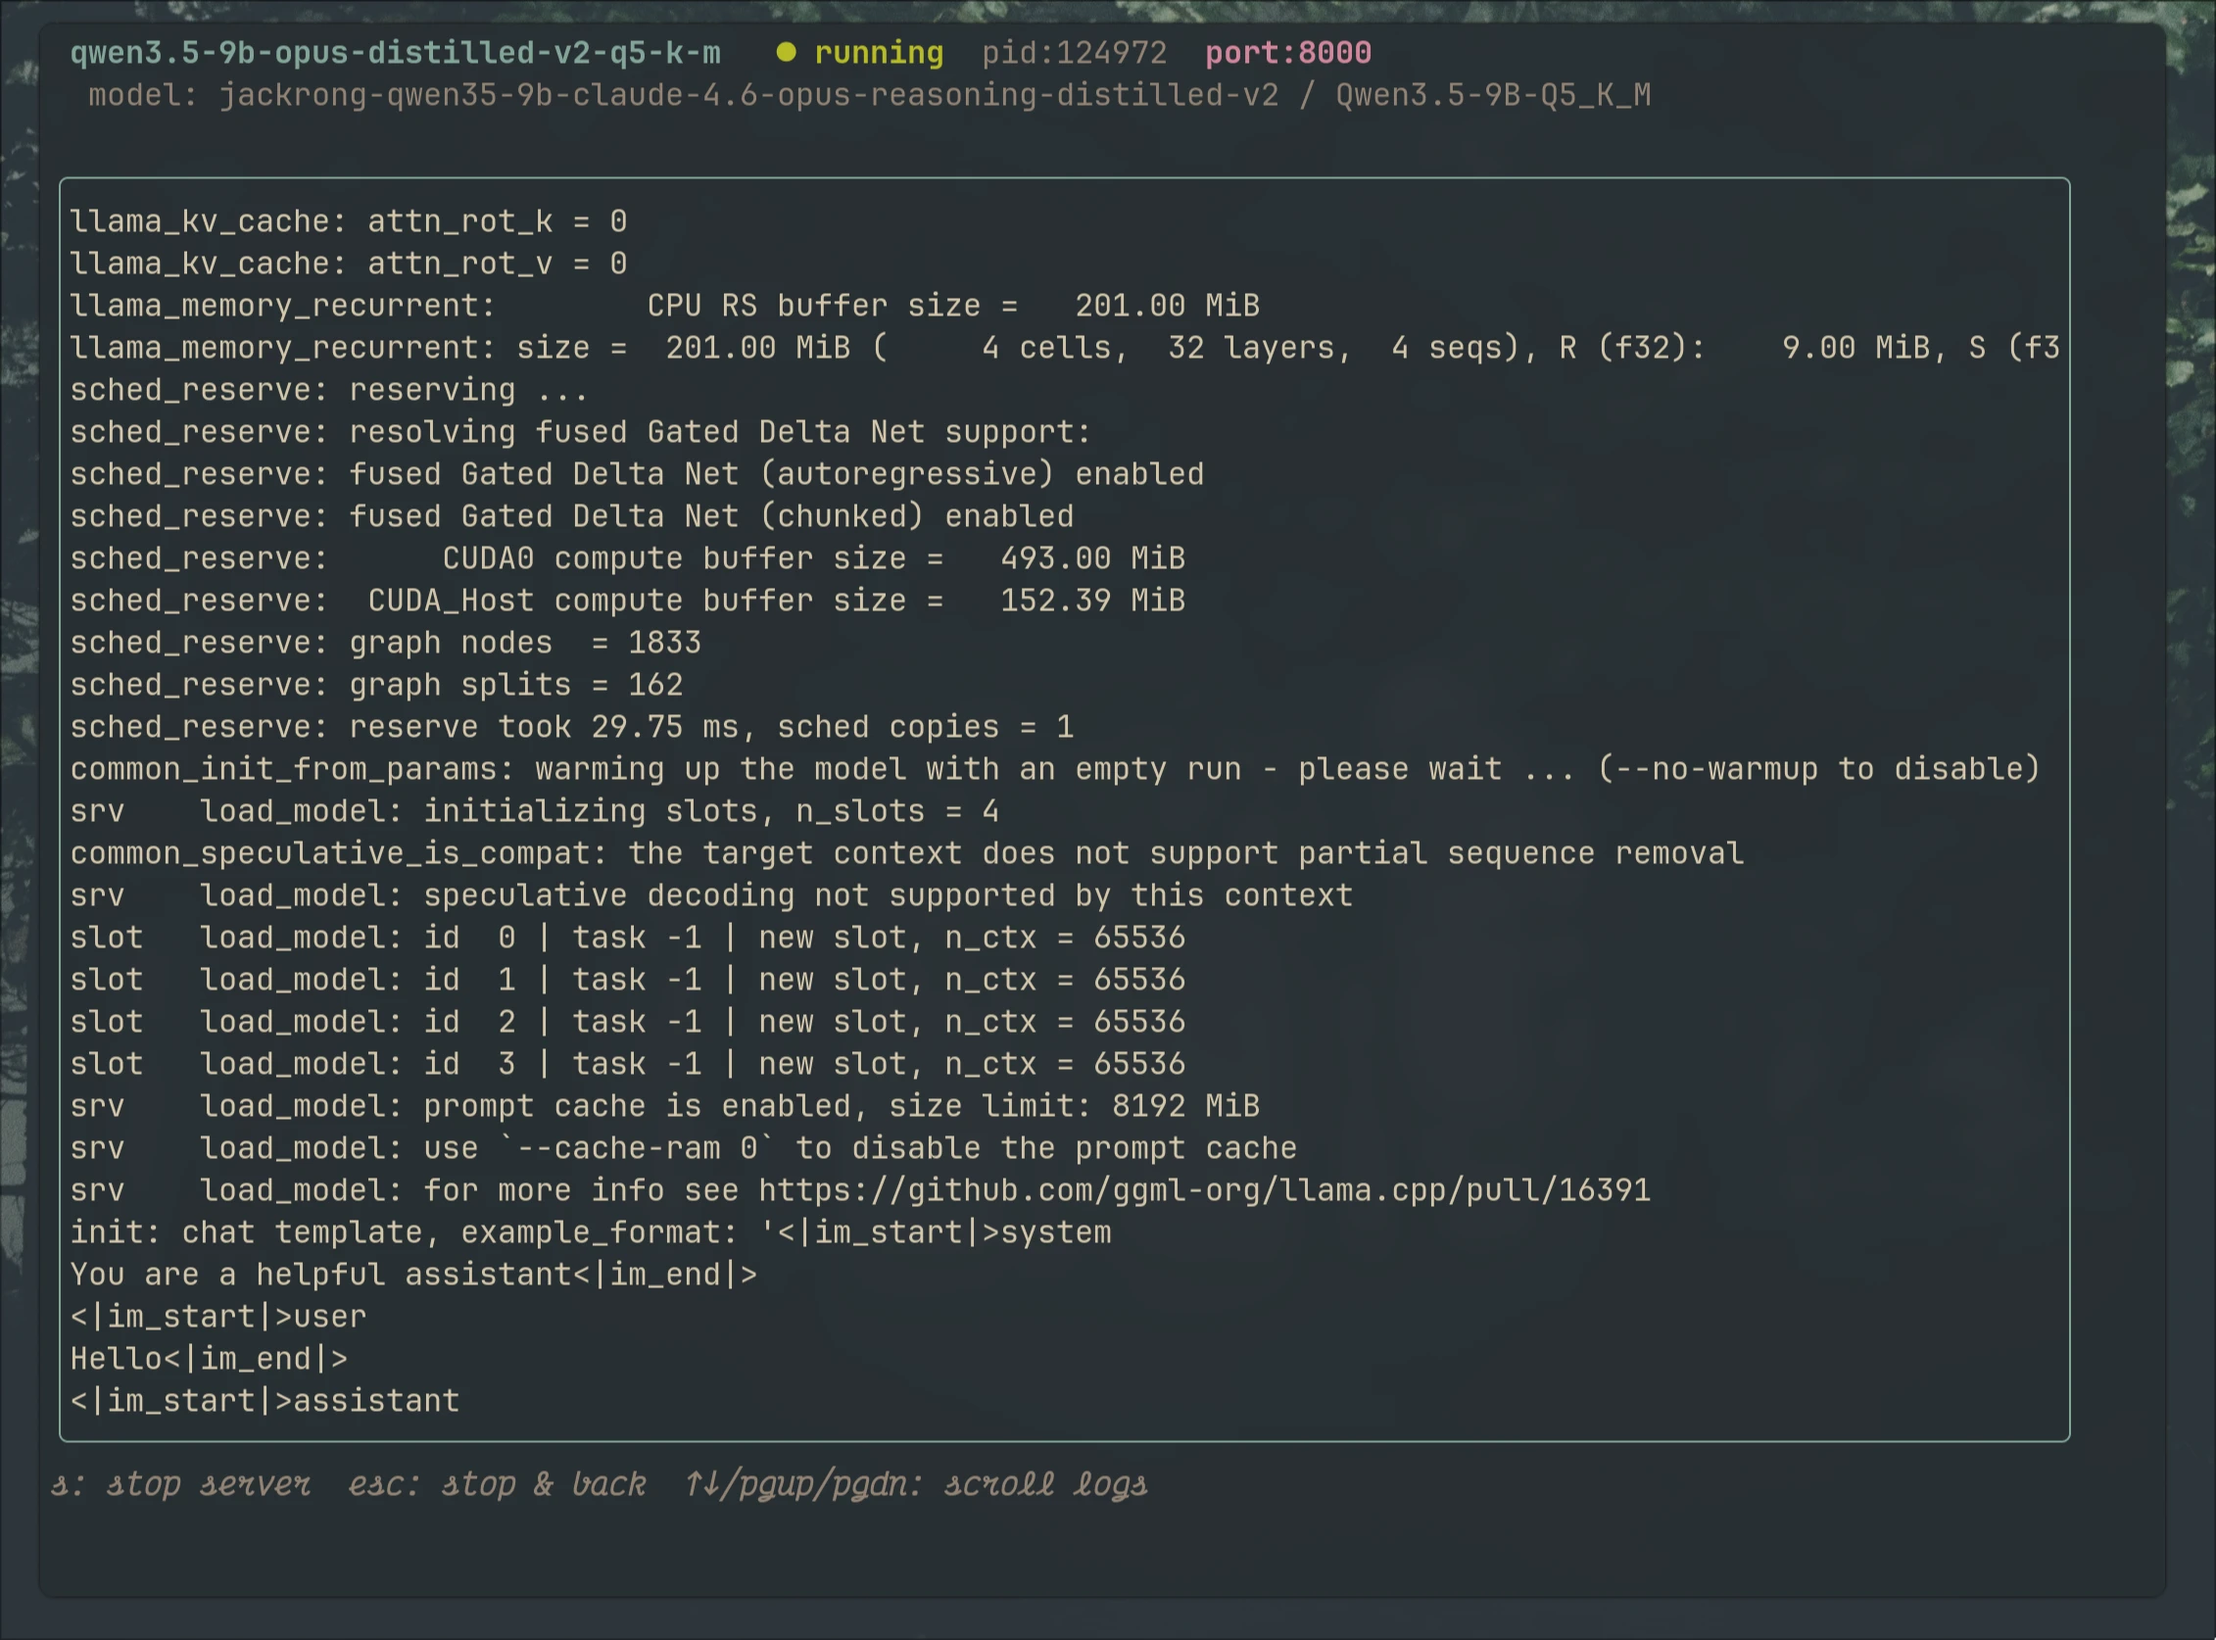
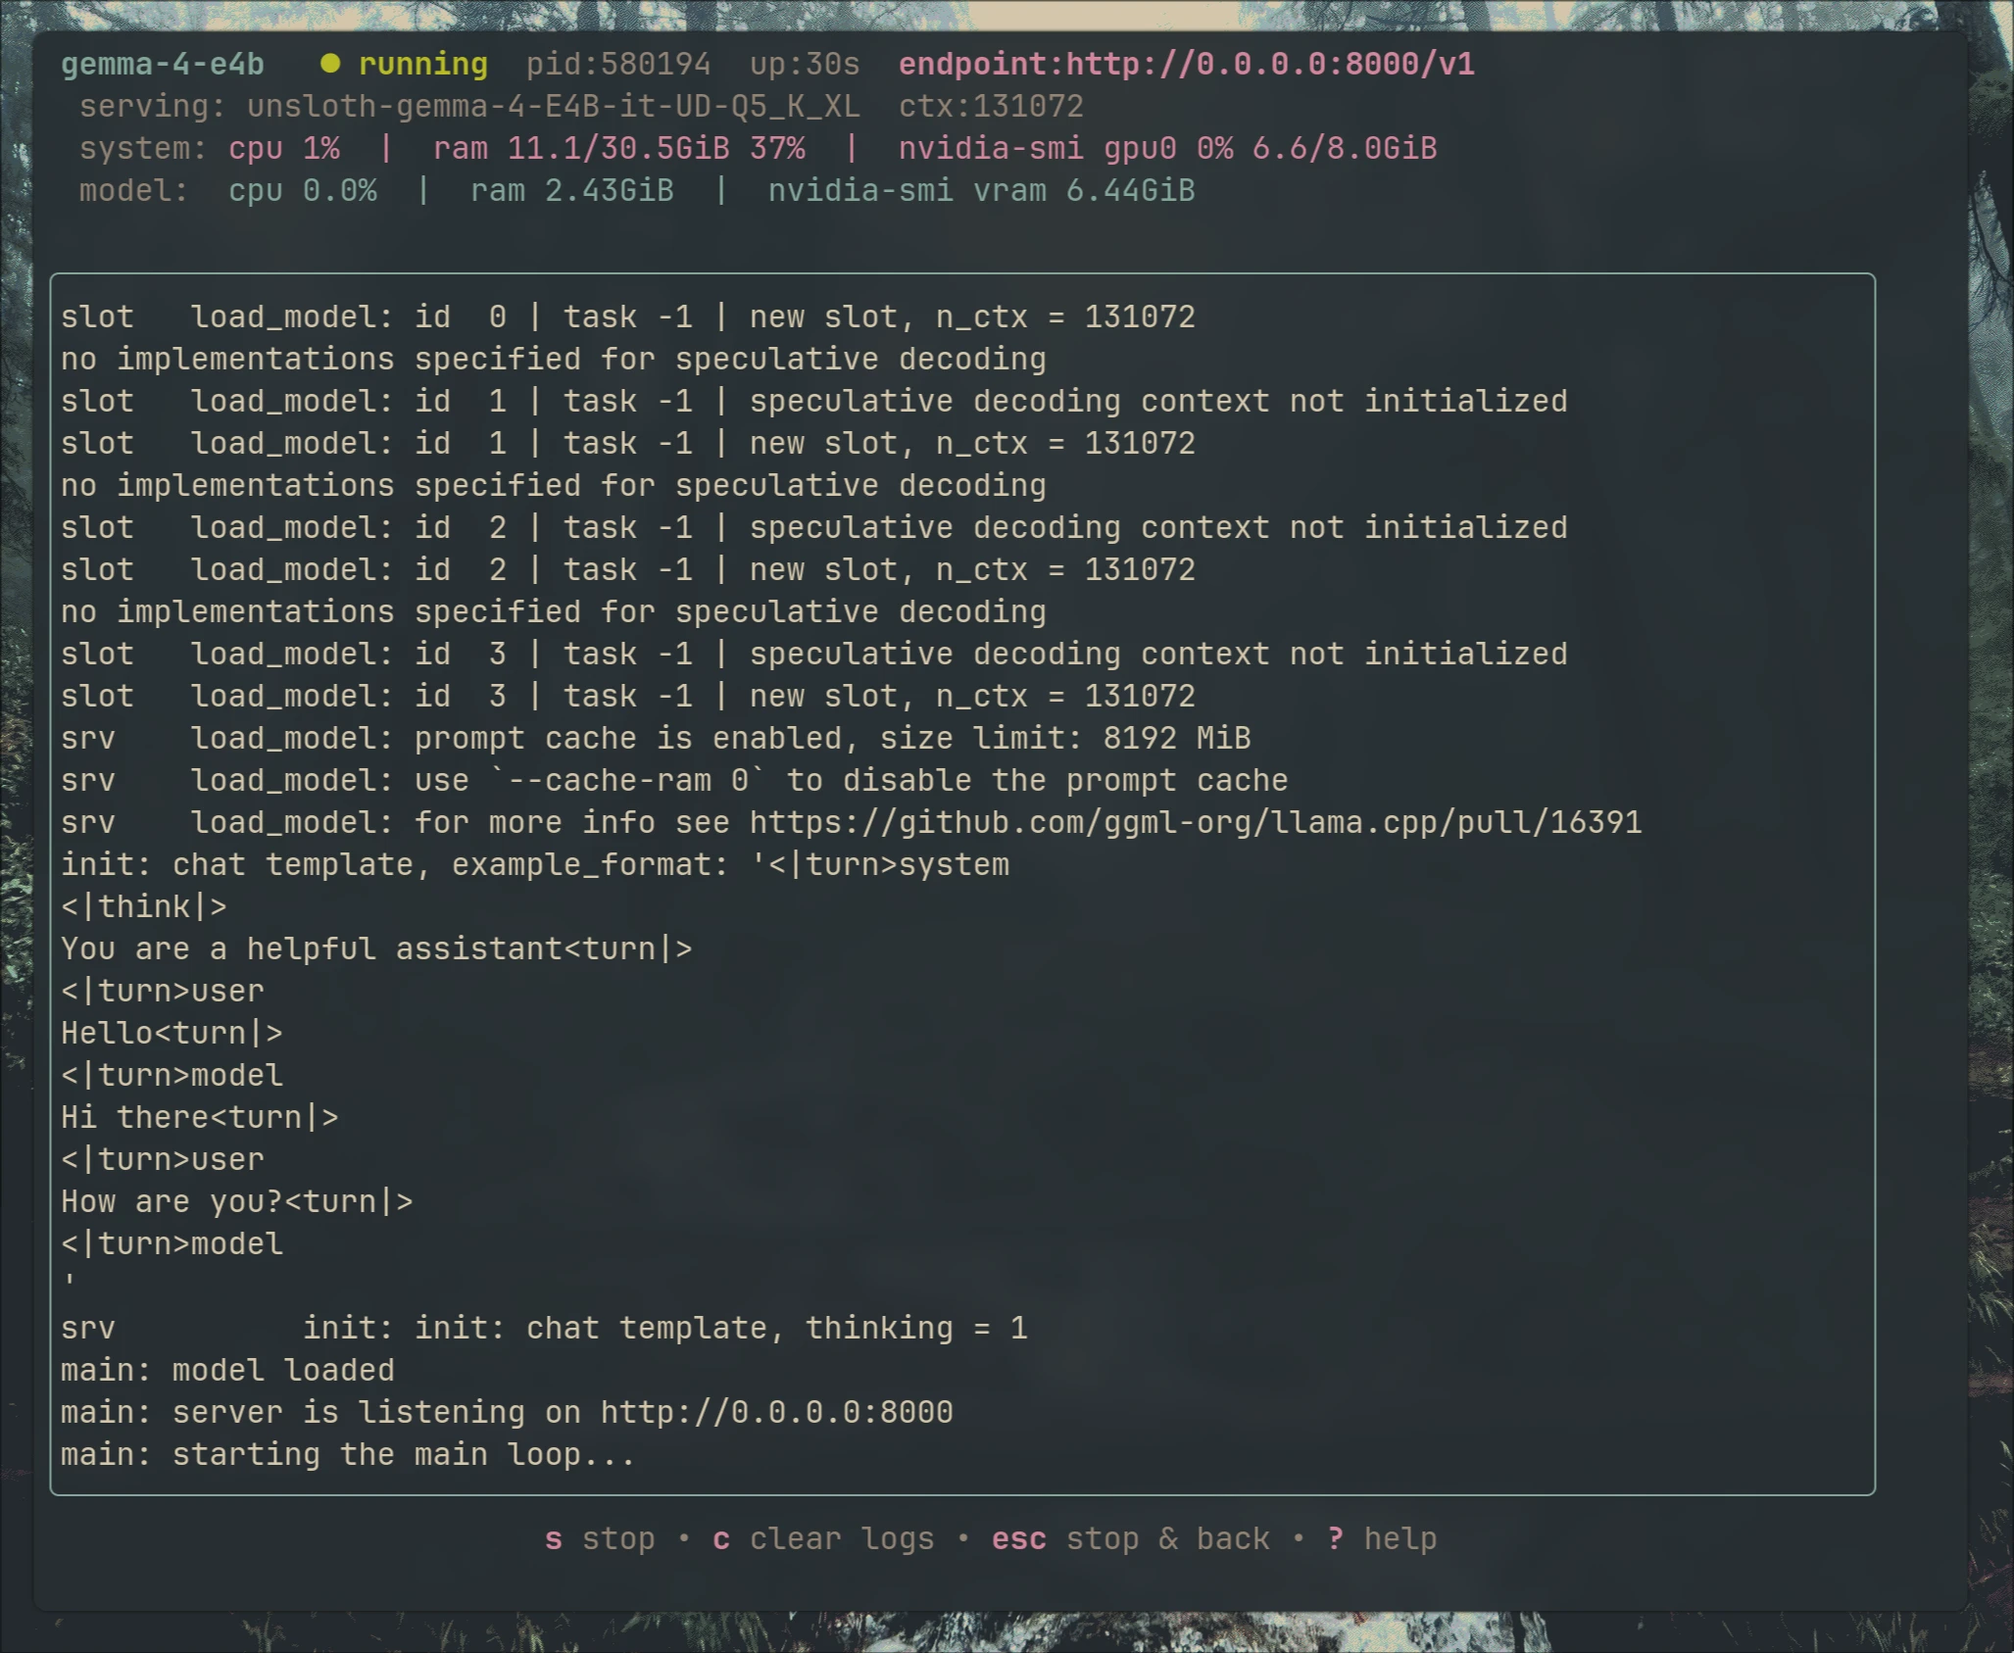
Updated the readme

diff --git a/docs/index.html b/docs/index.html
@@ -3,10 +3,10 @@
 <head>
   <meta charset="UTF-8">
   <meta name="viewport" content="width=device-width, initial-scale=1.0">
-  <title>infai — Zero-management local LLM launcher</title>
-  <meta name="description" content="Stop wrestling with CLI flags. infai auto-detects, configures, and launches local LLMs from a terminal UI.">
-  <meta property="og:title" content="infai — Zero-management local LLM launcher">
-  <meta property="og:description" content="Auto-detect models, create launch profiles, and run local LLMs without memorizing shell commands.">
+  <title>infai — Lightweight local LLM launcher</title>
+  <meta name="description" content="A lightweight, simple terminal UI for local LLM inference. Auto-detect GGUF models, save profiles, and launch fast.">
+  <meta property="og:title" content="infai — Lightweight local LLM launcher">
+  <meta property="og:description" content="A lightweight, simple terminal UI to auto-detect models, save launch profiles, and run local inference without flag soup.">
   <meta property="og:type" content="website">
   <meta property="og:url" content="https://infai.dipankar-das.com">
   <link rel="preconnect" href="https://fonts.googleapis.com">
@@ -51,8 +51,8 @@
       </h1>
       <p class="hero-sub reveal-up" style="--d:3">
         infai auto-detects your GGUF models, wraps llama.cpp in a terminal UI,
-        and lets you launch inference servers with one keypress.<br>
-        No flags to memorize. No YAML. No scripts.
+        and launches inference servers with one keypress.<br>
+        Lightweight. Simple. No flag soup, YAML sprawl, or shell scripts.
       </p>
       <div class="hero-actions reveal-up" style="--d:4">
         <a href="#install" class="btn-primary">
@@ -125,7 +125,7 @@
       <div class="showcase-text">
         <span class="showcase-num">01</span>
         <h3>Configure once,<br>launch forever</h3>
-        <p>Name your profile, set context size, GPU layers, batch parameters, flash attention, quantization type. Save it. Never think about it again.</p>
+        <p>Name your profile, set context size, GPU layers, batch parameters, flash attention, quantization type. Save it once and relaunch in seconds.</p>
       </div>
       <div class="showcase-img">
         <div class="img-frame">
@@ -137,7 +137,7 @@
       <div class="showcase-text">
         <span class="showcase-num">02</span>
         <h3>Watch inference<br>happen live</h3>
-        <p>Built-in scrollable viewport streams server output in real-time. Stop, restart, or switch models without leaving the TUI.</p>
+        <p>Built-in viewport streams logs plus system/model metrics in real-time. Stop, restart, or switch models without leaving the TUI.</p>
       </div>
       <div class="showcase-img">
         <div class="img-frame">
@@ -156,39 +156,46 @@
       <div class="feat reveal-up" style="--d:0">
         <span class="feat-marker">//</span>
         <div>
+          <h3>Lightweight by design</h3>
+          <p>Minimal dependencies, terminal-native UX, and fast startup. infai stays out of your way and keeps local inference simple.</p>
+        </div>
+      </div>
+      <div class="feat reveal-up" style="--d:1">
+        <span class="feat-marker">//</span>
+        <div>
           <h3>Auto-detection</h3>
           <p>Point at your model directories. infai scans for GGUF files and indexes them. New model? Just rescan.</p>
         </div>
       </div>
-      <div class="feat reveal-up" style="--d:1">
+      <div class="feat reveal-up" style="--d:2">
         <span class="feat-marker">//</span>
         <div>
           <h3>Reusable profiles</h3>
           <p>Multiple configs per model. Compare Q4_K_M vs Q5_K_S, or 4K vs 64K context, in seconds flat.</p>
         </div>
       </div>
-      <div class="feat reveal-up" style="--d:2">
+      <div class="feat reveal-up" style="--d:3">
         <span class="feat-marker">//</span>
         <div>
-          <h3>Live inference logs</h3>
-          <p>Real-time scrollable viewport. No more tmux splits or tail -f in another window.</p>
+          <h3>Live logs + metrics</h3>
+          <p>Real-time viewport with process and system stats. No tmux splits, no tail -f, no second monitor needed.</p>
         </div>
       </div>
-      <div class="feat reveal-up" style="--d:3">
+      <div class="feat reveal-up" style="--d:4">
         <span class="feat-marker">//</span>
         <div>
           <h3>Terminal themes</h3>
           <p>Tokyonight, Everforest, One Dark, Rose Pine, Gruvbox. Match your terminal's vibe.</p>
         </div>
       </div>
-      <div class="feat reveal-up" style="--d:4">
+      <div class="feat reveal-up" style="--d:5">
         <span class="feat-marker">//</span>
         <div>
           <h3>SQLite config</h3>
           <p>One database. No scattered dotfiles, no YAML, no env vars. Everything in one place.</p>
         </div>
       </div>
-      <div class="feat reveal-up" style="--d:5">
+      <div class="feat reveal-up" style="--d:6">
         <span class="feat-marker">//</span>
         <div>
           <h3>One-key launch</h3>
@@ -254,7 +261,8 @@
     <p class="roadmap-sub reveal-up">llama.cpp today. Your single control plane for all local inference tomorrow.</p>
     <div class="roadmap-timeline">
       <div class="roadmap-line" aria-hidden="true"></div>
-      <div class="roadmap-node done reveal-up" style="--d:0">
+
+      <div class="roadmap-node done reveal-up" style="--d:1">
         <div class="node-dot"></div>
         <div class="node-content">
           <span class="node-status">shipped</span>
@@ -262,7 +270,17 @@
           <p>GGUF auto-detect, launch profiles, live logs, 5 themes</p>
         </div>
       </div>
-      <div class="roadmap-node next reveal-up" style="--d:1">
+
+      <div class="roadmap-node done reveal-up" style="--d:0">
+        <div class="node-dot"></div>
+        <div class="node-content">
+          <span class="node-status">shipped</span>
+          <h3>Resource monitoring</h3>
+          <p>Live system and model CPU, memory, and GPU telemetry in the run screen</p>
+        </div>
+      </div>
+
+      <div class="roadmap-node next reveal-up" style="--d:2">
         <div class="node-dot"></div>
         <div class="node-content">
           <span class="node-status">next</span>
@@ -270,20 +288,12 @@
           <p>HuggingFace SafeTensors and Apple MLX architectures</p>
         </div>
       </div>
-      <div class="roadmap-node next reveal-up" style="--d:2">
+      <div class="roadmap-node next reveal-up" style="--d:3">
         <div class="node-dot"></div>
         <div class="node-content">
           <span class="node-status">next</span>
           <h3>vLLM backend</h3>
           <p>Production-grade batched inference management</p>
-        </div>
-      </div>
-      <div class="roadmap-node next reveal-up" style="--d:3">
-        <div class="node-dot"></div>
-        <div class="node-content">
-          <span class="node-status">planned</span>
-          <h3>Resource monitoring</h3>
-          <p>Live CPU, memory, GPU utilization in the TUI</p>
         </div>
       </div>
     </div>

diff --git a/README.md b/README.md
@@ -12,9 +12,6 @@
 **Zero-management launch templates for [llama.cpp](https://github.com/ggerganov/llama.cpp).**  
 Simplify configuration management and run local models faster. Perfect for rapid experimentation and testing without the need to remember complex shell commands.
 
-![profile config](profile-config.webp)
-![running model](runningmodel.webp)
-
 ## Features
 
 - **One-Click Launch** — Instant start with pre-configured profiles. No more memorizing long CLI commands.
